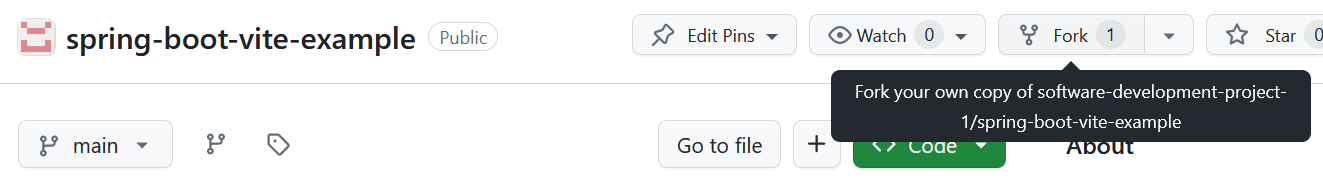
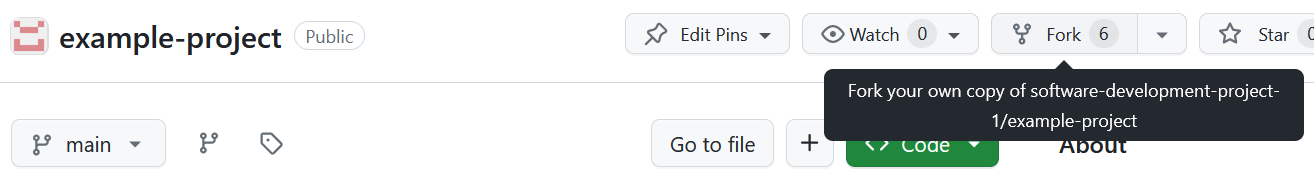
example project

diff --git a/material/sprint-2.md b/material/sprint-2.md
@@ -369,7 +369,7 @@ const jsonData = JSON.stringify(data);
 console.log(jsonData); // '["This", "is", "a", "JavaScript", "array"]'
 ```
 
-Instead of sending a response as an HTML page, we can serialize Java objects into JSON strings and send it as a response. Let's have a look at the [MessageRestController](https://github.com/software-development-project-1/spring-boot-vite-example/blob/main/src/main/java/fi/haagahelia/quizzer/controller/MessageRestController.java) controller class in the example project:
+Instead of sending a response as an HTML page, we can serialize Java objects into JSON strings and send it as a response. Let's have a look at the [MessageRestController](https://github.com/software-development-project-1/example-project/blob/main/src/main/java/fi/haagahelia/quizzer/controller/MessageRestController.java) controller class in the example project:
 
 ```java
 @RestController
@@ -459,7 +459,7 @@ In this case, the `getMessageById` method will handle GET request to the path `/
 
 To have full control over the format of the request and response body we can use [DTO](https://www.baeldung.com/java-dto-pattern) classes. Especially with the request body annotated by the `@RequestBody` annotation, we should _always_ use a DTO class object instead of an entity class object. This is because using an entity class object might accidently allow users to update undesired attributes of an entity as described [here](https://rules.sonarsource.com/java/tag/spring/RSPEC-4684/).
 
-For example, in the `createMessage` method the request body format is defined by the [CreateMessageDto](https://github.com/software-development-project-1/spring-boot-vite-example/blob/main/src/main/java/fi/haagahelia/quizzer/dto/CreateMessageDto.java) class:
+For example, in the `createMessage` method the request body format is defined by the [CreateMessageDto](https://github.com/software-development-project-1/example-project/blob/main/src/main/java/fi/haagahelia/quizzer/dto/CreateMessageDto.java) class:
 
 ```java
 public class CreateMessageDto {

diff --git a/material/sprint-1.md b/material/sprint-1.md
@@ -391,7 +391,7 @@ By default we can't see the labels or the milestone on the issue cards. We can c
 
 ## Thymeleaf page layouts
 
-If we start the example project application and visit the [message list page](http://localhost:8080) at and the [add message page](http://localhost:8080/messages/add), we see that the pages share a common structure. They both have the navigation bar at the top of the page. If we dig deeper into the HTML structure, there's also common `link` and `script` elements. We could simply copy-paste the navigation bar HTML to both pages, but once we implement more pages and want to update the navigation bar, things start to get out of hand. Instead, we can have a common _layout_ for the application that each page can share. This can be achieved using the [Thymeleaf Layout Dialect](https://ultraq.github.io/thymeleaf-layout-dialect/).
+If we start the example project application and visit the [message list page](http://localhost:8080) at and the [add message page](http://localhost:8080/messages/add), we see that the pages share a common structure. They both have the navigation bar at the top of the page. If we dig deeper into the HTML structure, there's also common `link` and `script` elements. We could simply copy-paste the navigation bar HTML to both pages, but once we implement more pages and want to update the navigation bar, things start to get out of hand. Instead, we can have a common _layout_ for the application that each page can share. This can be achieved using the [Thymeleaf Layout Dialect](https://ultraq.github.io/thymeleaf-layout-dialect/) which has been configured for the project in the [ThymeleafConfig](https://github.com/software-development-project-1/example-project/blob/main/src/main/java/fi/haagahelia/quizzer/config/ThymeleafConfig.java) class.
 
 If we take a look at the example project's `layout.html` file in the `src/main/resources/templates` folder we'll see that the file has a common structure for each page:
 
